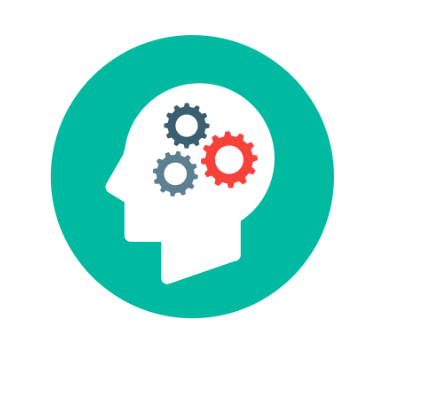
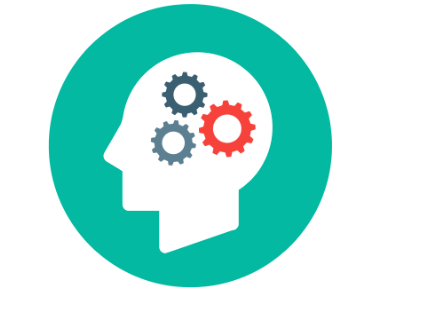
progress on home page

Changed region(s): [[0.0918, 0.1506, 0.7953, 0.8735], [0.1224, 0.0, 0.7647, 0.3614], [0.2753, 0.3012, 0.3059, 0.3916]]

diff --git a/index.html b/index.html
@@ -23,46 +23,49 @@
         </div>
       </nav>
     </header>
-    <main>
-      <section>
-        <!-- sign in form -->
-        <div id="index-banner" class="parallax-container">
-          <div class="section no-pad-bot">
-            <div class="container">
-              <br><br>
-              <h2 class="header center teal-text text-lighten-2">Log In</h2>
-                <form action="index.html" method="post">
-                  <div class="row center">
-                    <div class="col s4"></div>
-                    <div class="input-field col s4">
-                      <input id="username" type="text" class="validate">
-                      <label for="first_name">Username</label>
-                    </div>
-                  </div>
-                  <div class="row center">
-                    <div class="col s4"></div>
-                    <div class="input-field col s4">
-                      <input id="password" type="text" class="validate">
-                      <label for="last_name">Password</label>
-                    </div>
-                  </div>
-                </form>
-              <br><br>
+    <main class="container">
+      <div class="row">
+        <section class="col m8 s12">
+          <h2>Log In</h2>
+          <form>
+            <div class="row">
+              <div class="input-field col s6">
+                <input id="username" type="text" class="validate">
+                <label for="username">username</label>
+              </div>
             </div>
-          </div>
-          <!-- <div class="parallax"><img src="http://materializecss.com/templates/parallax-template/background1.jpg" alt="Unsplashed background img 1" style="display: block; transform: translate3d(-50%, 202px, 0px);"></div> -->
-        </div>
-      </section>
-      <section>
-        <!-- scroll profiles -->
-        <div class="carousel">
-          <a class="carousel-item" href="#one!"><img src="https://lorempixel.com/250/250/nature/1"></a>
-          <a class="carousel-item" href="#two!"><img src="https://lorempixel.com/250/250/nature/2"></a>
-          <a class="carousel-item" href="#three!"><img src="https://lorempixel.com/250/250/nature/3"></a>
-          <a class="carousel-item" href="#four!"><img src="https://lorempixel.com/250/250/nature/4"></a>
-          <a class="carousel-item" href="#five!"><img src="https://lorempixel.com/250/250/nature/5"></a>
-        </div>
-      </section>
+            <div class="row">
+              <div class="input-field col s6">
+                <input id="password" type="text" class="validate">
+                <label for="password">password</label>
+              </div>
+            </div>
+            <div class="row">
+              <div class="input-field col s12">
+                <input class="btn" type="submit" name="submit" value="login">
+              </div>
+            </div>
+          </form>
+        </section>
+        <section id="skills" class="col m4 s12">
+          <h2>Skills</h2>
+          <ul>
+            <li>
+              <div class="chip">
+                <i class="material-icons">code</i>
+                Skill Name
+              </div>
+            </li>
+            <li>
+              <div class="chip">
+                <i class="material-icons">code</i>
+                Skill Name
+              </div>
+            </li>
+          </ul>
+        </section>
+      </div>
+
       <aside class="">
         <!-- slide out bar - use side nav -->
       </aside>

diff --git a/styles/styles.css b/styles/styles.css
@@ -17,6 +17,16 @@ main {
 }
 
 #brain {
-  height: 10vh;
+  height: 8vh;
   vertical-align: bottom;
+}
+
+.material-icons {
+  vertical-align: bottom;
+  padding-bottom: 0.5vh;
+}
+
+#skills {
+  max-height: 50vh;
+  overflow: scroll;
 }

diff --git a/scripts/app.js b/scripts/app.js
@@ -1,5 +1,5 @@
 $(document).ready(function(){
   $('.carousel').carousel();
-
+  $('.chips').material_chip();
 
 });
